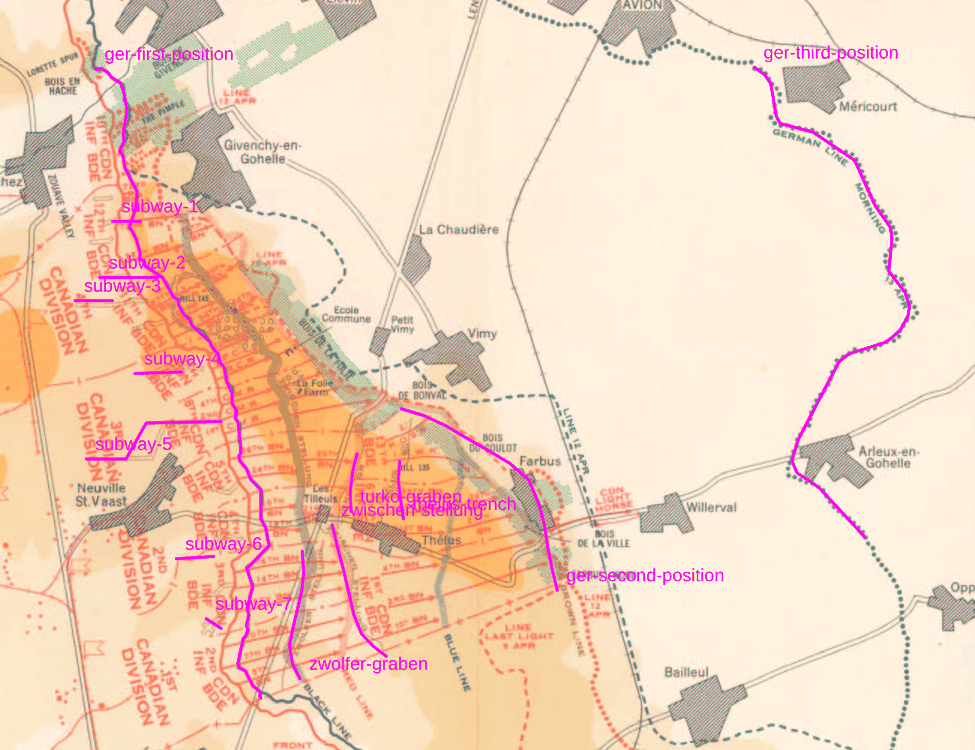
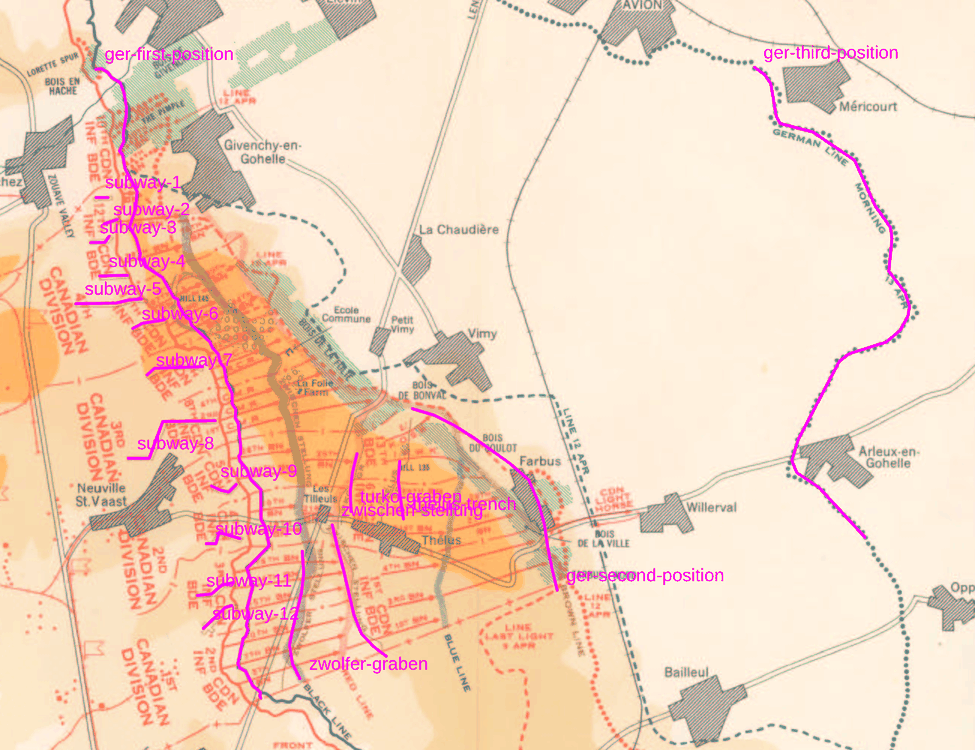
fix(vimy): re-trace subways on their Map 7 outlines; correct two page citations
The seven subways were hand-placed and up to 460 m off; two ran past the
Canadian front. All 12 subway outlines Map 7 draws are now traced on their
centrelines (within about 20 m), each ending west of cdn-front. Thélus Trench
is p. 256 and "a frontage of more than a mile" p. 253. geometry.md records the
searches tried for crater coordinates; a new detail overlay shows the subways.

Claude-Session: https://claude.ai/code/session_01XErEhzTsDnLS1TvzyozBxx

diff --git a/docs/research/vimy/geometry.md b/docs/research/vimy/geometry.md
@@ -153,7 +153,7 @@ between the outermost arrows of the two neighbouring divisions, where they cross
 
 | Sector | yMin | yMax | Frontage | Text |
 |---|---|---|---|---|
-| barrage-1cdn | −4650 | −2980 | 1,670 m | "a frontage of more than a mile" (p. 254) |
+| barrage-1cdn | −4650 | −2980 | 1,670 m | "a frontage of more than a mile" (p. 253) |
 | barrage-2cdn | −2980 | −1770 | 1,210 m | "a 1400-yard front" (p. 254), 1,280 m |
 | barrage-3cdn | −1770 | −570 | 1,200 m | — |
 | barrage-4cdn | −570 | 1320 | 1,890 m | — |
@@ -168,7 +168,7 @@ The leg values in `fireplan.yaml` are the Plan 1 draft's, entered as estimates "
 |---|---|---|
 | trench | ger-first-position (the front trace), zwolfer-graben, zwischen-stellung (south of Les Tilleuls only), ger-second-position (traced as the Brown Line, which "covered the German Second Line", p. 247), ger-third-position | ±60-150 m |
 | communication-trench | turko-graben, thelus-trench | ±100-120 m |
-| subway | subway-1 … subway-7 (unnamed on Map 7) | ±100 m |
+| subway | subway-1 … subway-12 (unnamed on Map 7; below) | ±60 m |
 | wood | Bois de la Folie, Bois de Bonval, Bois du Goulot (Count's Wood), Farbus Wood, Bois de la Ville, Bois de Givenchy, Bois en Hache | ±100 m |
 | village | 14 within the extent, centres of the hatched blocks, with a radius | ±100 m |
 | strongpoint | hill-145, hill-135, the-pimple, la-folie-farm | below |
@@ -176,6 +176,16 @@ The leg values in `fireplan.yaml` are the Plan 1 draft's, entered as estimates "
 **Hills.** Map 7 marks the hills only with labels. Each hill is the highest `ign-rge-alti` cell within 300-450 m of its
 label (the label sits beside the summit): Hill 145 at 149.8 m (40 m from the memorial), Hill 135 at 139.7 m, The Pimple at
 122.2 m (Nicholson: "an independent height of 120 metres", p. 245). The grid is the modern surface.
+
+**Subways (re-traced in fix round 1).** The first digitizing placed seven subways by hand at constant pixel rows, and
+the task review found four of them 200-460 m off their outlines, two ending in no man's land or beyond the German front.
+They were re-traced: each is the centreline of a grey double outline (the legend's "Subways" symbol), read at 7-8× zoom
+on gridded crops, so every vertex is within about 2 px (20 m) of the outline, plus the fit's error. Map 7 draws **12**
+outlines, all ending at or just short of the red Canadian front line (p. 250: "leading to the Canadian front line"):
+five in the 4th Division's sector (p. 259 says six were tunnelled there), three in the 3rd, two in the 2nd and two in the
+1st. After projection every subway's easternmost vertex lies 12-163 m west of `cdn-front` and 211-851 m west of
+`ger-front`. subway-1 is a short isolated outline that stops about 85 m short of the front on the map. Nicholson's
+total is "eleven subways" (p. 250); the map's twelfth may be a branch or a cave entrance, and none is named.
 
 **Mine craters.** Map 7 marks no craters; the green rings near Hill 145 and north of La Folie Farm are, in the map's
 symbology, orchards (p. 256 mentions "the orchards to the north"). No crater was entered (open question).
@@ -190,7 +200,8 @@ Each overlay (`overlays/`) draws the digitized features in magenta over Map 7 wi
 | `map7-gcps.png` | each GCP's modern coordinates land on its map junction | none needed (all within the dot) |
 | `map7-front-lines.png` | both fronts lie on the red and dark-blue lines | the first German trace cut across the Pimple's hatching for 500 m; re-traced with a corridor |
 | `map7-objective-lines.png` | the objective lines lie on their bands | blue-2cdn and brown-2cdn crossed north of Thélus; brown moved up to 130 m east, blue 40 m west |
-| `map7-trenches-subways.png` | trenches and subways on their map lines | the Third Line was first read from row medians of blue pixels and ran up to 170 m inside the dotted line; re-traced from the detected dots |
+| `map7-trenches-subways.png` | trenches and subways on their map lines | the Third Line was first read from row medians of blue pixels and ran up to 170 m inside the dotted line; re-traced from the detected dots. The subways were re-traced in fix round 1 (below) |
+| `map7-subways-detail.png` | each subway on its grey double outline, at 4-5× (thin magenta; green is cdn-front) | added in fix round 1; every subway lies on its outline to within about 2 px (20 m) |
 | `map7-woods-villages-strongpoints.png` | woods, villages, hills | Bois de la Folie outline was up to 170 m north-east of the hatching (redrawn); Écurie's point was 850 m off its block (corrected, then outside the extent) |
 | `map7-vs-ign-contours.png` | the fit against the map's layer tints | none |
 
@@ -213,8 +224,8 @@ Each overlay (`overlays/`) draws the digitized features in magenta over Map 7 wi
 | zwischen-stellung | `nicholson-1962` | p. 246 | "a single-trench Intermediate Line (Zwischen-Stellung) reached southward from the village of Vimy through the western edge of Thelus" | official |
 | ger-third-position | `nicholson-1962` | Map 7; p. 246 | "the Third Line snaked its way southward from Lens over the plain, passing in front of the villages of Mericourt and Oppy" | official |
 | turko-graben | `nicholson-1962` | p. 255 | "the Turko-Graben, which reached northward behind the road" | official |
-| thelus-trench | `nicholson-1962` | p. 257 | "overran Thelus Trench north of the village" | official |
-| subway-1…7 | `nicholson-1962` | Map 7; p. 250 | "eleven subways of a total length of almost four miles, leading to the Canadian front line" | official |
+| thelus-trench | `nicholson-1962` | p. 256 | "overran Thelus Trench north of the village" | official |
+| subway-1…12 | `nicholson-1962` | Map 7; p. 250 | "eleven subways of a total length of almost four miles, leading to the Canadian front line" | official |
 | hill-145, hill-135 | `nicholson-1962` + `ign-rge-alti` | p. 245 | "Hill 135 (measured in metres), immediately north of the village of Thelus, and Hill 145, two miles farther north-west" | estimate |
 | the-pimple | `nicholson-1962` + `ign-rge-alti` | p. 245 | "an independent height of 120 metres at the north end of the Ridge, known as \"The Pimple\"" | estimate |
 | la-folie-farm | `nicholson-1962` | Map 7; p. 246 | "La Folie Farm (midway between Hills 135 and 145)" | official |
@@ -238,11 +249,31 @@ Each overlay (`overlays/`) draws the digitized features in magenta over Map 7 wi
 
 ## Open questions for the historian
 
-- **Subway names.** Map 7 draws seven subway outlines in the Canadian lines without names, and Chapter VIII names none
+- **Subway names.** Map 7 draws twelve subway outlines in the Canadian lines without names, and Chapter VIII names none
   (only Zivy Cave). Goodman, Grange, Lichfield and the others need a trench map or a tunnelling-company history to tie
-  names to outlines.
-- **Mine craters.** Map 7 shows none, and no reachable source with crater coordinates was found in this task. The crater
-  groups in no man's land (from trench maps, or the memorial park's preserved craters) are missing.
+  names to outlines. Nicholson counts eleven subways (p. 250) and six in the 4th Division's sector (p. 259); the map shows
+  twelve and five.
+- **Mine craters.** Map 7 shows none, and no source in this task gives crater coordinates that can be tied to a named
+  crater. The crater groups in no man's land (from trench maps, or the memorial park's preserved craters) are missing.
+  The searches tried (all 2026-11-20, UTC):
+  - Map 7's legend and symbology: no crater symbol; the green rings are orchards (above).
+  - `en.wikipedia.org` search API, query "Vimy crater" (16:54): titles Battle of Vimy Ridge, Canadian National Vimy
+    Memorial, Vimy, German attack on Vimy Ridge, Tunnelling companies of the Royal Engineers, Thélus, 172nd and 176th
+    Tunnelling Company. Not read: the next queries ("Vimy mine crater coordinates", "Broadmarsh crater", "Grange subway
+    Vimy", the same on `de.wikipedia.org`, and a 3 km geosearch around the memorial) were refused with HTTP 429 (rate
+    limit), and retries with backoff over about two minutes were refused too. Articles "Lichfield Crater" and "Zivy
+    Crater" do not exist on en.wikipedia.org (16:58, `prop=coordinates`).
+  - `commons.wikimedia.org` geosearch, files within 2.5 km of the memorial (281 files): no title containing crater,
+    krater, cratère or entonnoir.
+  - IGN BD TOPO V3 WFS (`data.geopf.fr`), bounding box 2.70-2.86° E, 50.33-50.41° N: `detail_orographique` (30 objects:
+    valleys, summits, ridges, a slope, a spoil heap; no crater), `ligne_orographique` (banks, levees, quarries),
+    `zone_d_activite_ou_d_interet` (no crater), `toponymie` (584 names) and `cimetiere` (38).
+  - **One lead.** BD TOPO's `cimetiere` layer has two Commonwealth war cemeteries, both named "Lichfield Crater":
+    `CIMETIER0000000310100058` centred at 2.776652° E, 50.359575° N (frame −358, −2173) and `CIMETIER0000000219989140` at
+    2.778135° E, 50.354721° N (frame −395, −2718). Both lie on the Canadian front line as digitized, in the 2nd Division's
+    sector: the first 27 m east of `cdn-front`, the second 8 m west of it (within the fit's error). But BD TOPO gives both the same name,
+    so which crater each is cannot be settled from the allowed hosts; neither was entered. Should they be entered as
+    unnamed crater features?
 - **The 12th Brigade's objectives** north of the Black and Red bands are estimates (above). Is there a trench map or order
   giving them?
 - **Blue and Brown north of Thélus** are estimates from the text. A barrage map or trench map would fix them.
